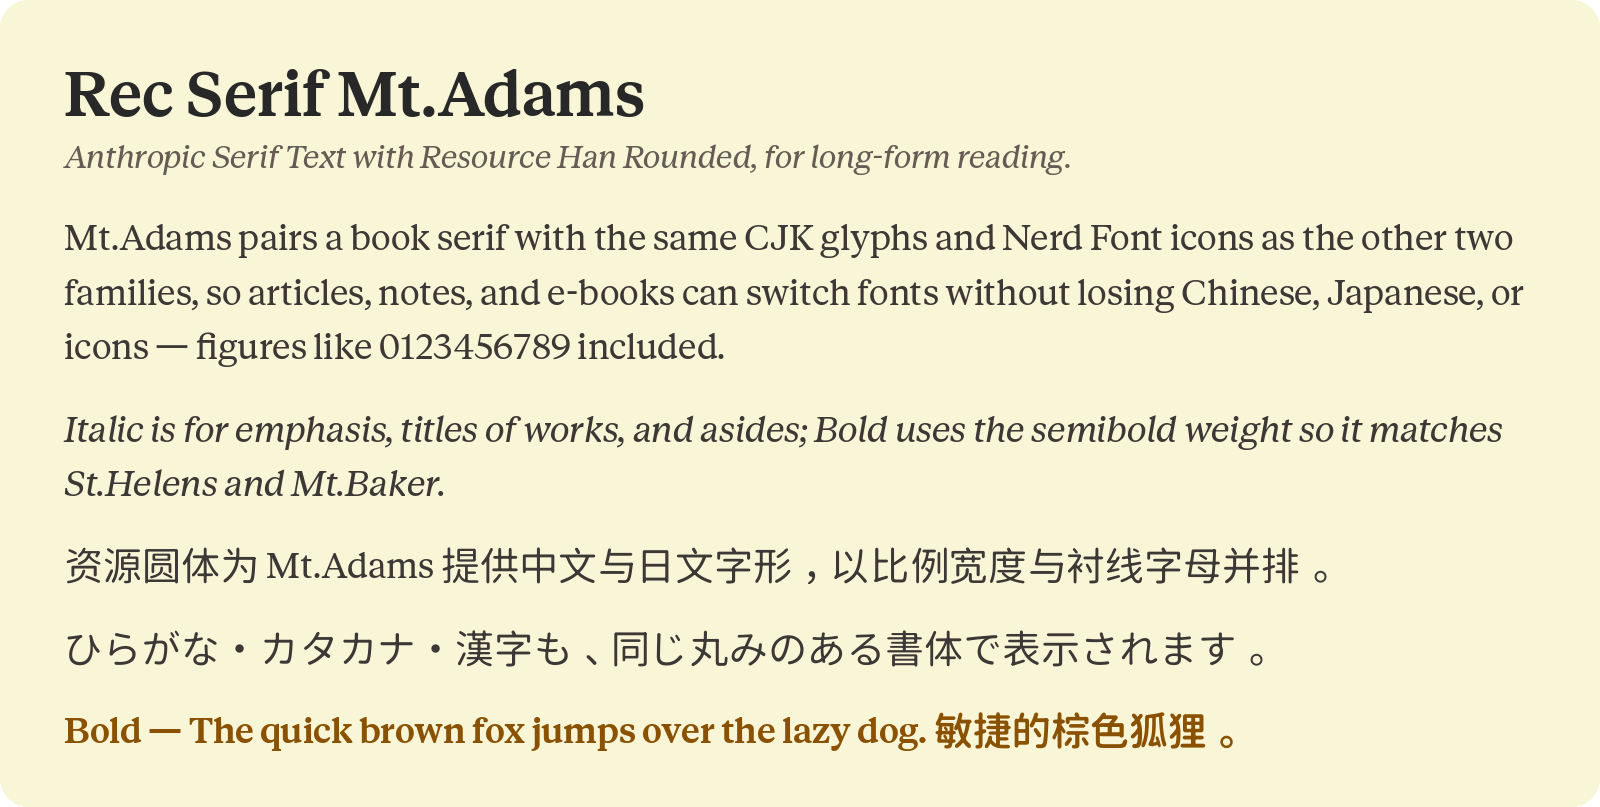
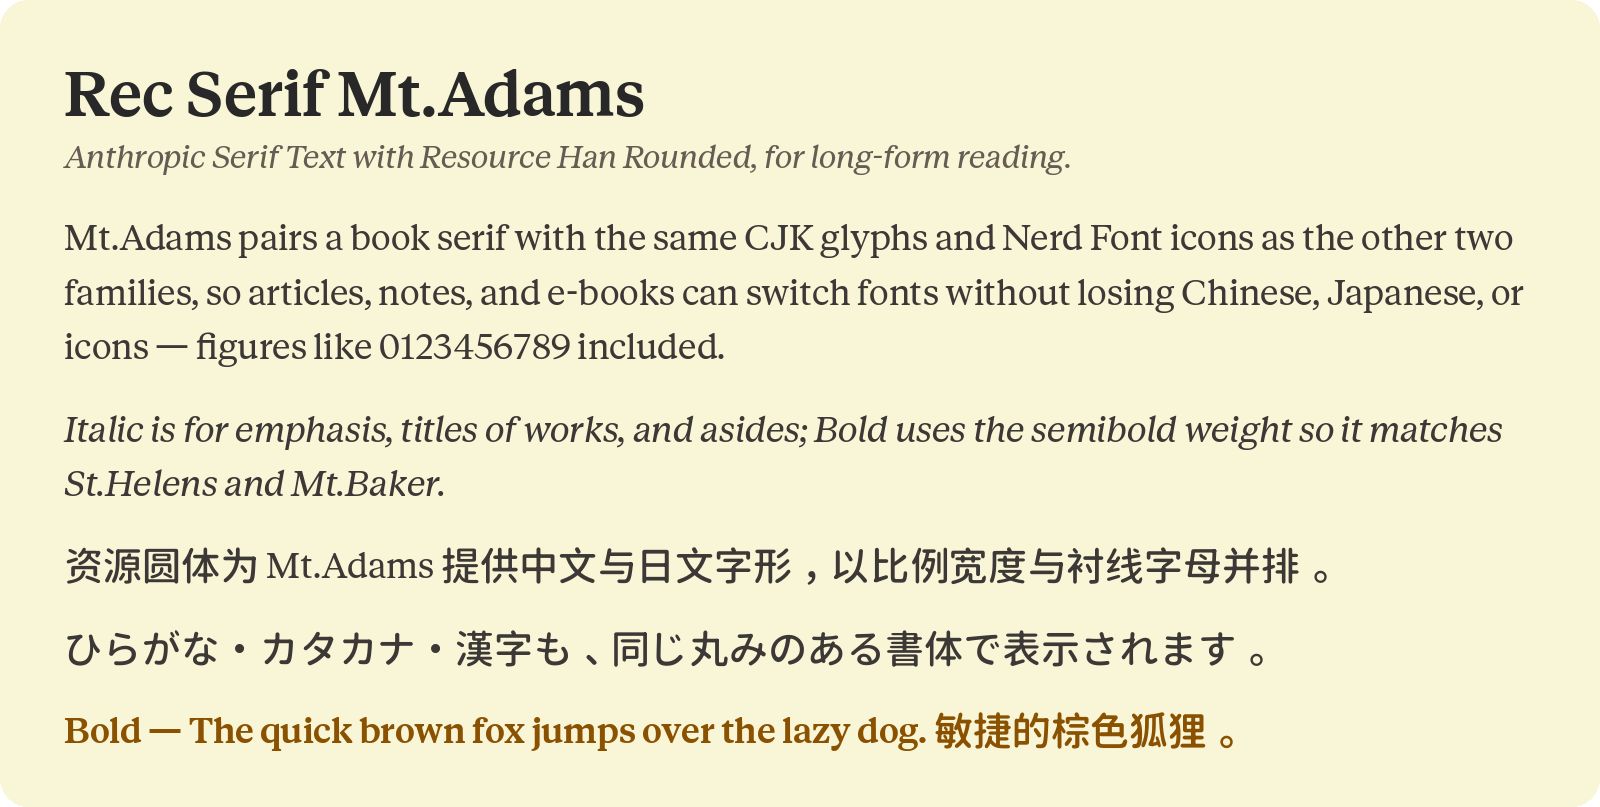
feat: CJK weight 500 for Regular and Italic, 600 for Bold
Resource Han Rounded at wght 400 drew Chinese stems lighter than the
Recursive Regular strokes. Regular and Italic now take the CJK glyphs from
the variable font at wght 500 (Medium); Bold and Bold Italic stay at 600.

The verifier expects a stem ratio of 0.111 for Regular, the fetch test
expects the Medium source, and the README, wiki pages and previews follow.

diff --git a/scripts/verify-fonts.py b/scripts/verify-fonts.py
@@ -26,7 +26,7 @@ REQUIRED_CODEPOINTS = {
 # CJK stroke weight as stem thickness / stroke length of 丨 and 一, which does
 # not change with the CJK scale. Resource Han Rounded measures about 0.089 at
 # wght 400, 0.111 at 500, 0.126 at 600, and 0.139 at 700.
-CJK_STEM_RATIO = {"Regular": 0.089, "Bold": 0.126}
+CJK_STEM_RATIO = {"Regular": 0.111, "Bold": 0.126}
 CJK_STEM_TOLERANCE = 0.006
 CJK_STEM_GLYPHS = (0x4E28, 0x4E00)
 

diff --git a/wiki/Build-Pipeline-zh-CN.md b/wiki/Build-Pipeline-zh-CN.md
@@ -34,7 +34,7 @@ flowchart LR
 
 ## 阶段 2：合入中日文
 
-`scripts/merge-cjk.py` 在 FontForge 中运行。它从资源圆体（Regular 和 Italic 用 wght 400，Bold 和 Bold Italic 用 wght 600）复制汉字、假名以及全角/半角区段，
+`scripts/merge-cjk.py` 在 FontForge 中运行。它从资源圆体（Regular 和 Italic 用 wght 500，Bold 和 Bold Italic 用 wght 600）复制汉字、假名以及全角/半角区段，
 先按拉丁字体的 em 缩放，只有高于其上伸部到下伸部的字身时才缩小，
 再乘以中日文缩放比例（默认 1.15），并在该字身中居中。等宽字体使用精确的单元格宽度；
 比例字体保留每个字形自身缩放后的宽度（`--proportional`）。
@@ -66,7 +66,7 @@ flowchart LR
 | `post.isFixedPitch` | 1 | 0 |
 | ASCII 步进宽度 | 全部等于空格 | 至少两种不同宽度 |
 | 汉字步进宽度 | 两格 | 所有汉字同一宽度；必须有半角 ｱ，宽度为其一半（± 1） |
-| 丨 和 一 的笔画粗细比（400：0.089，600：0.126，± 0.006） | 是 | 是 |
+| 丨 和 一 的笔画粗细比（500：0.111，600：0.126，± 0.006） | 是 | 是 |
 | `head.flags` 第 4 位 | 清除 | — |
 
 所有字体构建完成后，`build-all.sh` 运行 `scripts/test-verify-fonts.py`：它修改 Mt.Baker Regular 的副本

diff --git a/wiki/Build-Pipeline.md b/wiki/Build-Pipeline.md
@@ -37,7 +37,7 @@ For `anthropic-serif`, from the configured static weight:
 ## Stage 2: merge CJK
 
 `scripts/merge-cjk.py` runs under FontForge. It copies the CJK, kana, and
-full-width/halfwidth ranges from Resource Han Rounded (wght 400 for Regular and
+full-width/halfwidth ranges from Resource Han Rounded (wght 500 for Regular and
 Italic, wght 600 for Bold and Bold Italic), scales them to the
 Latin font's em, shrinks them only if they are taller than its
 ascender–descender body, multiplies them by the CJK scale (default 1.15), and
@@ -74,7 +74,7 @@ error:
 | `post.isFixedPitch` | 1 | 0 |
 | ASCII advances | All equal to the space | At least two different widths |
 | CJK advance | Two cells | One width for every ideograph; halfwidth ｱ is present and takes half (± 1) |
-| CJK stem ratio of 丨 and 一 (400: 0.089, 600: 0.126, ± 0.006) | Yes | Yes |
+| CJK stem ratio of 丨 and 一 (500: 0.111, 600: 0.126, ± 0.006) | Yes | Yes |
 | `head.flags` bit 4 | Clear | — |
 
 After every family is built, `build-all.sh` runs `scripts/test-verify-fonts.py`,

diff --git a/wiki/Fonts-zh-CN.md b/wiki/Fonts-zh-CN.md
@@ -105,8 +105,8 @@ Mt.Adams（`configs/mt-adams.yaml`）的每种样式取自 Anthropic Serif Text 
 | 资源圆体 CN | 汉字（U+4E00–9FFF 中 20,976 个）、假名、CJK 标点、全角和半角字符 |
 | Nerd Fonts | 补丁工具 `--complete` 选项加入的全部图标集，包括 Powerline |
 
-中日文字形来自资源圆体，字重与拉丁字形一致：Regular 和 Italic 使用 wght 400，
-Bold 和 Bold Italic 使用 wght 600。在每套字体中，字形先按拉丁字体的 em 缩放，只有高于其上伸部到下伸部的
+中日文字形来自资源圆体：Regular 和 Italic 使用 wght 500，比拉丁字形的 wght 400 重一级；
+Bold 和 Bold Italic 使用 wght 600，与拉丁字形相同。在每套字体中，字形先按拉丁字体的 em 缩放，只有高于其上伸部到下伸部的
 字身时才缩小，然后放大 1.15 倍并在该字身中居中。不包含韩文音节。
 
 ## 字宽差异

diff --git a/README.md b/README.md
@@ -85,7 +85,7 @@ St.Helens and Mt.Baker share one design. Every family has four styles: Regular, 
   <img alt="Chinese mixed with Latin text in Regular and Bold of all three families" src="docs/previews/cjk-light.png" width="800">
 </picture>
 
-Chinese and Japanese glyphs come from Resource Han Rounded at the Latin weights: wght 400 for Regular and Italic, and wght 600 for Bold and Bold Italic. They are drawn 1.15× and centred on the Latin line. In St.Helens each one takes exactly two cells; in Mt.Baker and Mt.Adams it keeps its proportional width.
+Chinese and Japanese glyphs come from Resource Han Rounded: wght 500 for Regular and Italic, one step heavier than the Latin wght 400, and wght 600 for Bold and Bold Italic, the same as the Latin. They are drawn 1.15× and centred on the Latin line. In St.Helens each one takes exactly two cells; in Mt.Baker and Mt.Adams it keeps its proportional width.
 
 ### Glyph coverage
 

diff --git a/wiki/Fonts.md b/wiki/Fonts.md
@@ -108,8 +108,8 @@ CJK merge and the icons line up as they do in the Recursive families.
 | Resource Han Rounded CN | CJK ideographs (20,976 in U+4E00–9FFF), kana, CJK punctuation, full-width and halfwidth forms |
 | Nerd Fonts | Every icon set the patcher's `--complete` option adds, including Powerline |
 
-CJK glyphs come from Resource Han Rounded at the same weight as the Latin
-glyphs: wght 400 for Regular and Italic, and wght 600 for Bold and Bold Italic. In every family they are
+CJK glyphs come from Resource Han Rounded: wght 500 for Regular and Italic, one
+step heavier than the Latin wght 400, and wght 600 for Bold and Bold Italic, the same as the Latin. In every family they are
 scaled to the Latin font's em, shrunk only if they would be taller than its
 ascender–descender body, then enlarged 1.15× and centred on that body. Hangul
 syllables are not included.

diff --git a/wiki/Building.md b/wiki/Building.md
@@ -42,7 +42,7 @@ pinned in `versions.env` into `sources/`:
 |---|---|
 | `sources/recursive/` | `Recursive_VF_<version>.ttf` and the code-ligature feature file |
 | `sources/anthropic-serif/` | Four Anthropic Serif Text `.otf` files, each checked against its pinned SHA-256 |
-| `sources/resource-han-rounded/` | `ResourceHanRoundedCN-Regular.ttf` (wght 400) and `-SemiBold.ttf` (wght 600), made from the variable font, whose archive is checked against its pinned SHA-256 |
+| `sources/resource-han-rounded/` | `ResourceHanRoundedCN-Medium.ttf` (wght 500) and `-SemiBold.ttf` (wght 600), made from the variable font, whose archive is checked against its pinned SHA-256 |
 | `sources/nerd-fonts-patcher/` | The Nerd Fonts `font-patcher` and its glyph sources |
 
 Each directory records its version in `.version`; later builds skip the download

diff --git a/wiki/Building-zh-CN.md b/wiki/Building-zh-CN.md
@@ -40,7 +40,7 @@ pip install -r requirements.txt
 |---|---|
 | `sources/recursive/` | `Recursive_VF_<版本>.ttf` 和代码连字特性文件 |
 | `sources/anthropic-serif/` | 四个 Anthropic Serif Text `.otf` 文件，每个都按固定的 SHA-256 校验 |
-| `sources/resource-han-rounded/` | 从可变字体生成的 `ResourceHanRoundedCN-Regular.ttf`（wght 400）和 `-SemiBold.ttf`（wght 600），其压缩包按固定的 SHA-256 校验 |
+| `sources/resource-han-rounded/` | 从可变字体生成的 `ResourceHanRoundedCN-Medium.ttf`（wght 500）和 `-SemiBold.ttf`（wght 600），其压缩包按固定的 SHA-256 校验 |
 | `sources/nerd-fonts-patcher/` | Nerd Fonts 的 `font-patcher` 及其图标源文件 |
 
 每个目录在 `.version` 中记录版本；在 `versions.env` 改变之前，后续构建会跳过下载。
